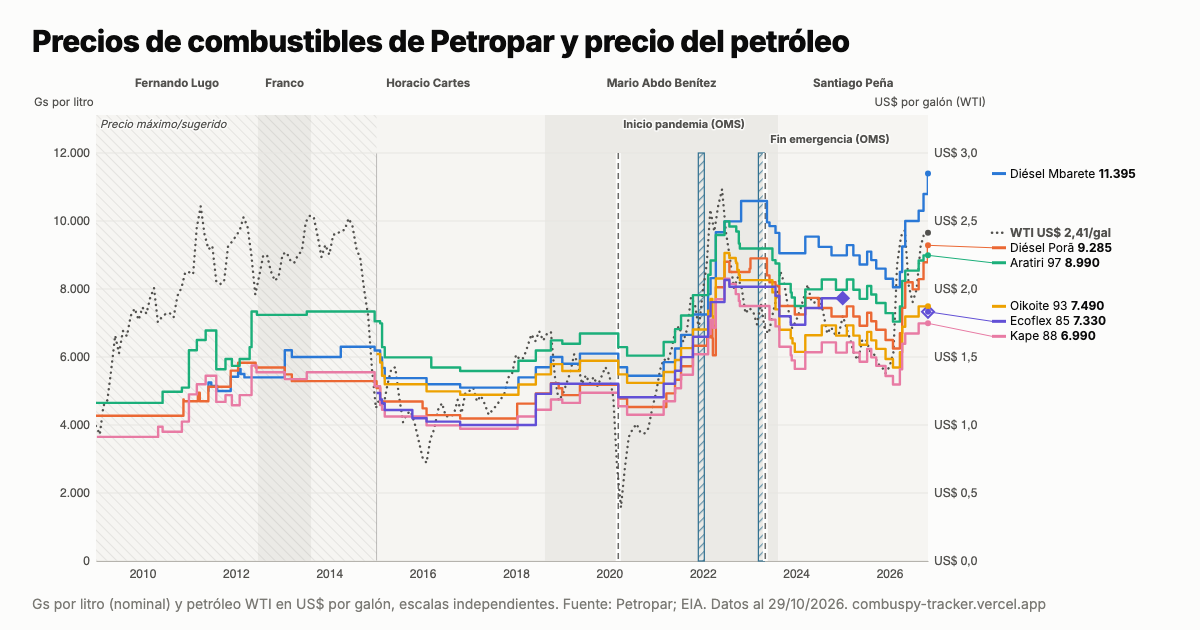
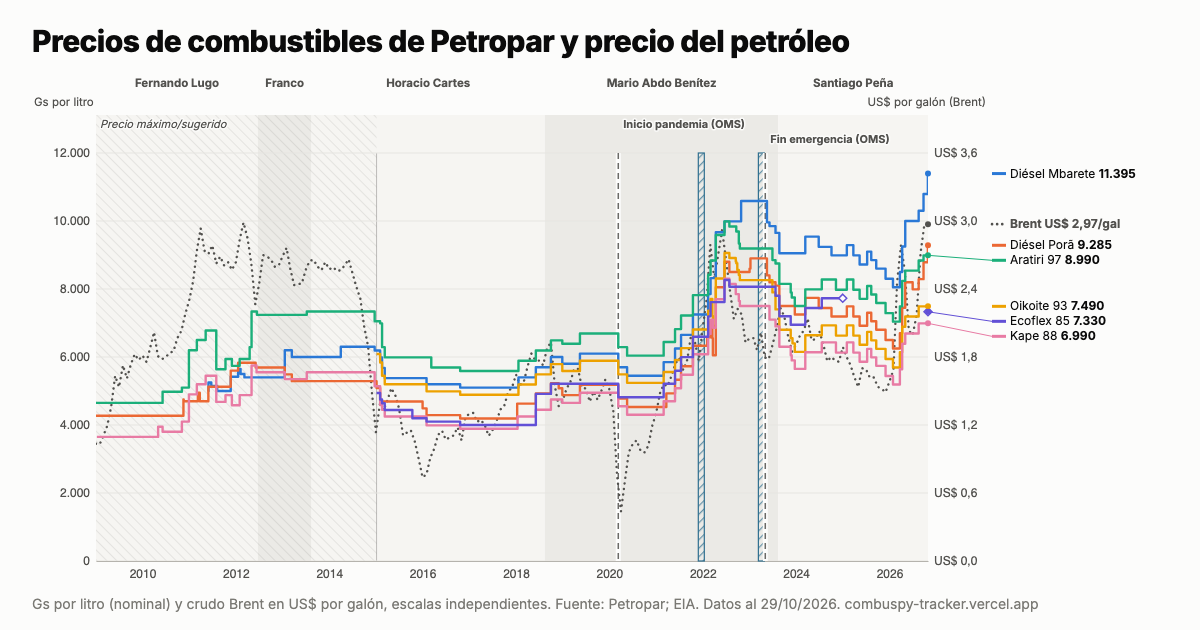
Sitio: escala del eje derecho con pasos intermedios; og.png con Brent

diff --git a/site/app.js b/site/app.js
@@ -197,7 +197,7 @@
   /* ---------- escalas ---------- */
   function niceOilStep(max, n) {
     var need = max / n, base = Math.pow(10, Math.floor(Math.log10(need)));
-    var mult = [1, 2, 2.5, 5, 10];
+    var mult = [1, 2, 2.5, 3, 4, 5, 6, 8, 10];   // pasos intermedios: el eje no queda con el doble de lo necesario
     for (var i = 0; i < mult.length; i++) if (base * mult[i] >= need) return base * mult[i];
     return base * 10;
   }
